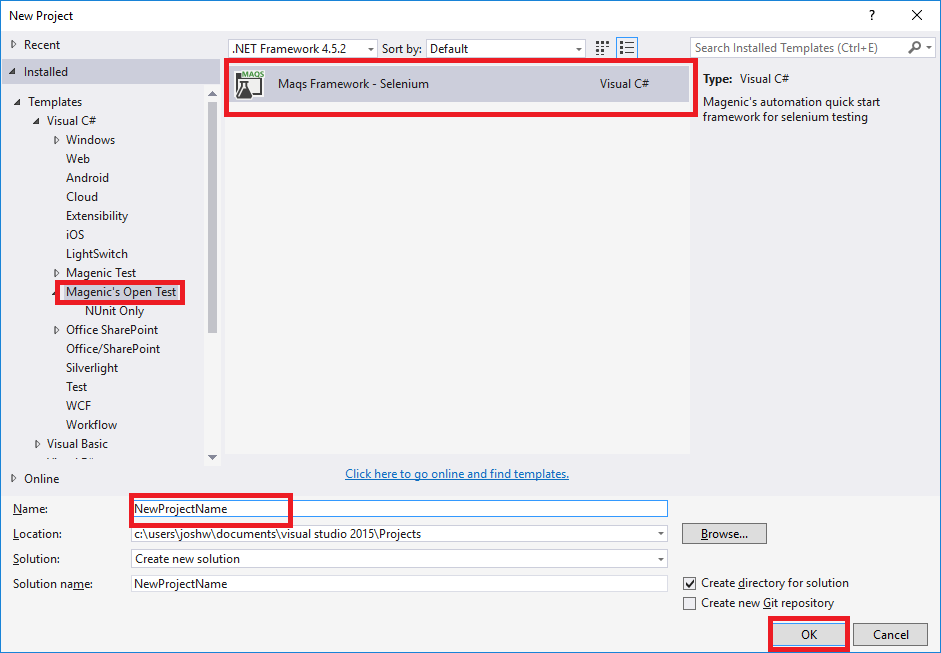
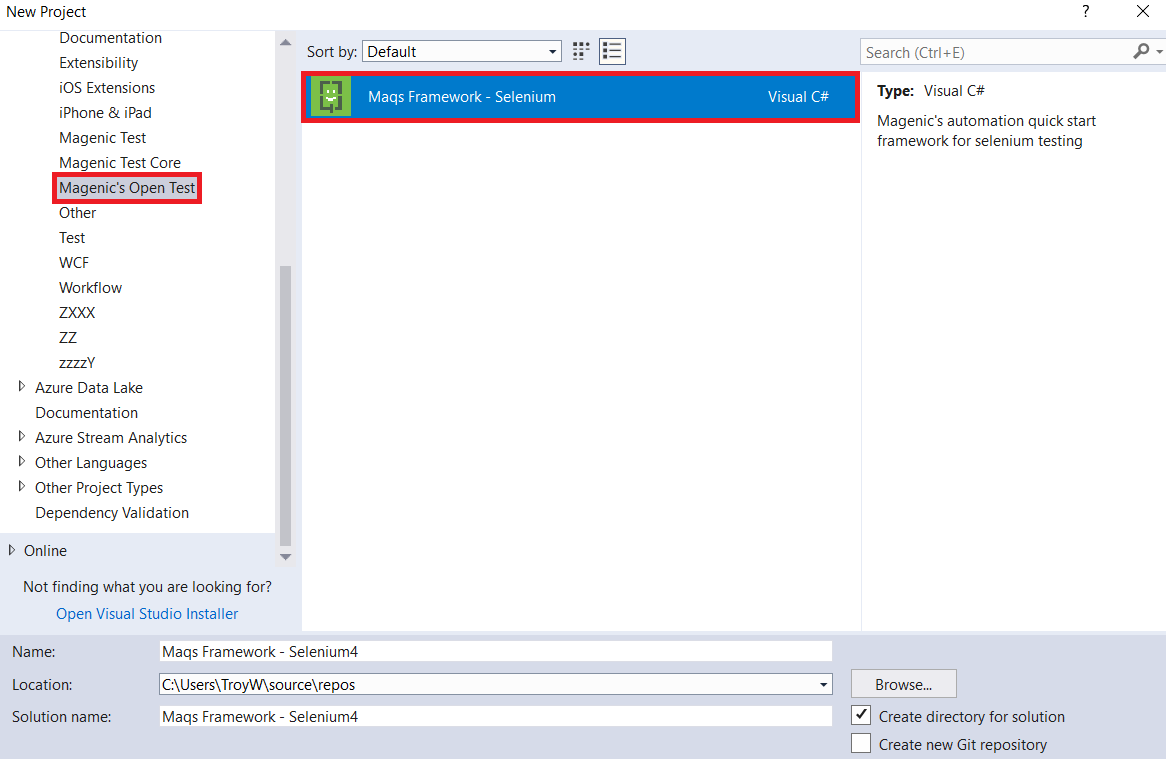
Updates to Sidebar, Introduction, and installation content

Changed region(s): [[0.0, 0.0, 1.0, 1.0], [0.3698, 0.7044, 0.6164, 0.7351]]

diff --git a/docs/MAQS_5.0.0/Installation.md b/docs/MAQS_5.0.0/Installation.md
@@ -2,56 +2,27 @@
 
 ## Requirements
 Visual Studio Professional (or Enterprise) 2015 or above.
-MSDN subscription
 
-## Install Using Visual Studio
+*We highly recommend using Visual Studio 2017 or above*
+
+## There are 2 ways to install MAQS Templates:
+    Option 1. Install via Visual Studio 
+    Option 2. Install via Marketplace
+
+## Option 1. Install MAQS Templates Using Visual Studio
 1. Open Visual Studio and open "Extensions and Updates"  
 
-### (screenshot here ![Extensions and updates](resources/ExtensionsAndUpdates.PNG))
+### ![Extensions and updates](resources/ExtensionsAndUpdates.PNG)
 
 2. Find and download MAQS  
 
-### (screenshot here ![From store](resources/FromStore.PNG))
+### ![From store](resources/FromStore.PNG)
 
-## Install Using The VS Marketplace
+
+## Option 2. Install MAQS Templates Using The VS Marketplace
 The MAQS Visual Studio Extension contains a collection of templates for NUnit, VSTest, Test Classes, and Page Models.
 It can be downloaded from the [Microsoft Marketplace](https://marketplace.visualstudio.com/items?itemName=vs-publisher-1465771.MAQSOpenFramework)
 
-## Install Using the NuGet Package
-In the package manage console write:
-
-### (screenshot here)
-
-```
-PM Installer
-```
-Or install with the NuGet package manager:
-
-### (screenshot here)
-
-```
-NuGet
-```
-
-## Adding NUnit Extension
-Templates for NUnit tests are included with MAQS, but the NUnit 3 Test Adapter extension is required to be installed before NUnit tests can be run.
-
-1. Open Extensions and Updates under Tools in the toolbar.  
-![Extensions and Updates](resources/NUnitSetup1.png)  
-
-2. Search NUnit in Online  
-![Download NUnit](resources/NUnitSetup2.png)  
-3. Download NUnit 3 Test Adapter
-
-## Building Your First Project
-After the MAQS Visual Studio Extension and NuGet package have been installed, you're ready to start testing.
-
-1. Go To File > New > Project
-2. Under Templates (in the side panel)
-3. Magenic's Open Test
-
-There are two options, MAQS Framework - Selenium , that will start a project with tests run in VSTest, or MAQS Framework - NUnit - Selenium.  The only difference is the test adapter used with the included test templates.
-
-Finally name the solution whatever you'd like to name, and click "ok".
+&nbsp;
 
 For next steps, check our [Getting Started guide](MAQS_5.0.0/Getting-Started.md).

diff --git a/docs/MAQS_5.0.0/_sidebar.md b/docs/MAQS_5.0.0/_sidebar.md
@@ -1,62 +1,65 @@
+- [Introduction to MAQS Open Source/Enterprise](MAQS_5.0.0/Introduction.md)
+
 - Open Source
-	- [Introduction to MAQS](MAQS_5.0.0/Introduction.md)
 
 	- [Installation](MAQS_5.0.0/Installation.md)
-
 	- [Getting Started](MAQS_5.0.0/Getting-Started.md)
 
-	- Open Source MAQS Features
+	- Open Source Features
 
 		- [i. Utilities]()
-		- [ii. Selenium]()
 
 			- [i. Generic Wait](MAQS_5.0.0/Generic-Waits.md)
+			- [ii. Configurations](MAQS_5.0.0/)
+			- [iii. FakerData](MAQS_5.0.0/)
+			- [iv. Logger](MAQS_5.0.0/)
 
+		- [ii. Selenium]()
+
+			- [i. Lazy Element](MAQS_5.0.0/)
 			- [ii. Waits](MAQS_5.0.0/Waits.md)
-
 			- [iii. Soft Assert](MAQS_5.0.0/Soft-Asserts.md)
-
 			- [iv. Action Builder](MAQS_5.0.0/Action-Builder.md)
-
 			- [v. Element Handler](MAQS_5.0.0/Element-Handler.md)
-
 			- [vi. Configurations](MAQS_5.0.0/Configuration.md)
+			- [vii. Find](MAQS_5.0.0/)
+			- [vii. Test Object](MAQS_5.0.0/)
+			- [viii. Utilities](MAQS_5.0.0/)
+			- [ix. Screen Capture](MAQS_5.0.0/)
+			- [x. Page Source](MAQS_5.0.0/)
+			- [xi. Kill Driver](MAQS_5.0.0/)
+
+
+
+
+
+
+
+
+
+
 
 
 - Enterprise
-	- [Introduction to MAQS](MAQS_5.0.0/Introduction.md)
 
 	- [Installation](MAQS_5.0.0/Installation.md)
-
 	- [Getting Started](MAQS_5.0.0/Getting-Started.md)
 
-	- [What is this?]
-
-	- Enterprise MAQS Features
+	- Enterprise Features
 
 		- [i. Utilities]()
-		- [ii. Selenium]()
 			- [i. Generic Wait](MAQS_5.0.0/Generic-Waits.md)
-
+		- [ii. Selenium]()
 			- [ii. Waits](MAQS_5.0.0/Waits.md)
-
 			- [iii. Soft Assert](MAQS_5.0.0/Soft-Asserts.md)
-
 			- [iv. Action Builder](MAQS_5.0.0/Action-Builder.md)
-
 			- [v. Element Handler](MAQS_5.0.0/Element-Handler.md)
-
 			- [vi. Configurations](MAQS_5.0.0/Configuration.md)
 		- [iii. Appium]()
 		- [iv. Database]()
 		- [v. Email]()
 		- [vi. WebServices]()
 	
-
-
-
-
-
 
 - [FAQ](MAQS_5.0.0/MAQS-FAQ.md)
 - [License](MAQS_5.0.0/License.md)

diff --git a/docs/MAQS_5.0.0/Getting-Started.md b/docs/MAQS_5.0.0/Getting-Started.md
@@ -2,25 +2,18 @@
 
 ## Installation
 The first step is to install MAQS.  Checkout the [MAQS Installation](MAQS_5.0.0/Installation) guide.  
-  
-Optional installs are NUnit and StyleCop.
 
 ## Building Your First Project
-After the MAQS Visual Studio Extension and NuGet package have been installed, you're ready to start testing.
+After the MAQS Visual Studio Extension has been installed, you're ready to start testing.
 
 
-1. Go To File > New > Project
+1. Go To File > New > Project  
 ![New Project](resources/NewProject1.png)  
 
-2. Under Templates (in the side panel)
-
-3. Magenic's Open Test
+2. Under Templates in the side panel, select "Magenic's Open Test" 
 ![New Project](resources/NewProject2.png)  
 
-There are two options, MAQS Framework - Selenium , that will start a project with tests run in VSTest, or MAQS Framework - NUnit - Selenium.  
-The only difference is the test adapter used with the included test templates.
-
-Finally name the solution whatever you'd like to name, and click "ok".
+3. Finally, name the solution whatever you'd like and click "ok".
 ## Adding a Page Model
 To add a new Page Model from a template
 

diff --git a/docs/MAQS_5.0.0/Introduction.md b/docs/MAQS_5.0.0/Introduction.md
@@ -10,4 +10,23 @@ It …
 
 The main idea behind MAQS is to avoid **reinventing the wheel**. Most automation engagements have you doing the same basic steps to get a functioning framework implemented. Utilizing project templates, NuGet, and utility libraries we are able to have a functioning framework up and running in minutes, almost entirely removing on the initial time investment on implementating an automation solution.
 
-![MAQS](resources/maqsfull.jpg)
+MAQS is available in 2 flavors, The first  is Open Source and the other is Enterprise.
+
+
+## Open Source 
+Open source is the Selenium subset of Enterprise features and mainly used for testing web UI.
+
+Open source is open to anyone to download without being a Magenic client. 
+
+
+## Enterprise
+Enterprise is the version of MAQS that includes all of the modules which includes (Appium, Database, Email, Selenium, and Webservices)
+
+The Enterprise version of MAQS is provided to Magenic Clients utilizing automation.
+
+
+
+To download either versions of MAQS, navigate towards the installation section
+
+
+![MAQS](resources/maqsfull.jpg) 
